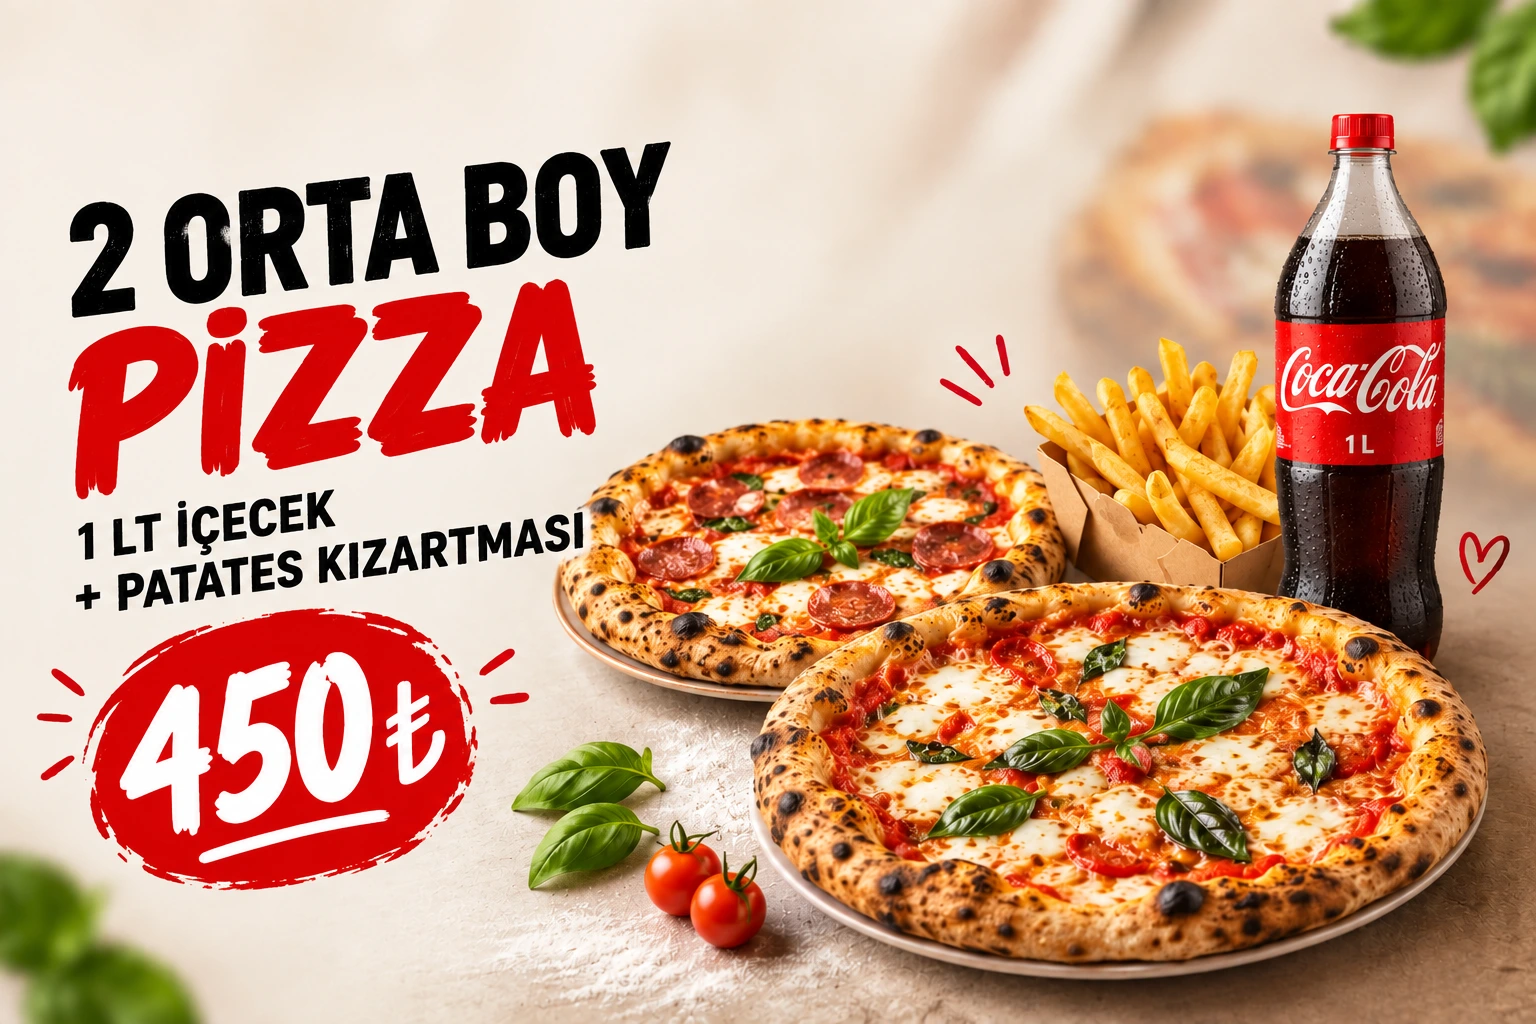
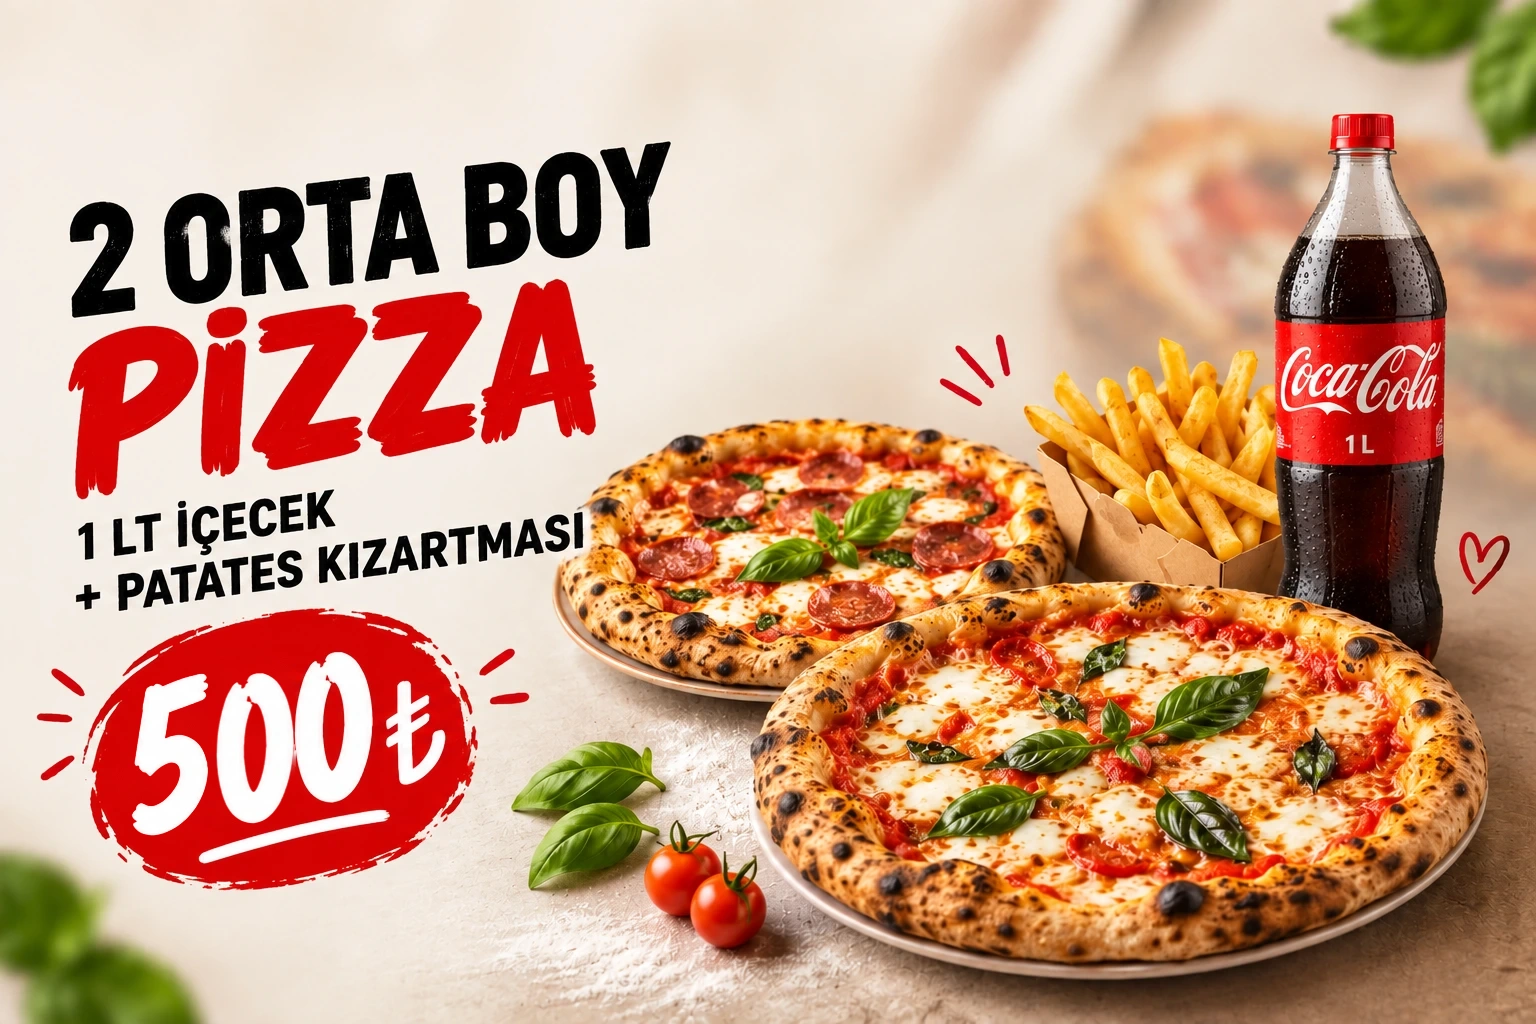
500

Changed region(s): [[0.0625, 0.625, 0.2188, 0.8125]]

diff --git a/src/features/PizzaShowcase/PizzaData.ts b/src/features/PizzaShowcase/PizzaData.ts
@@ -289,8 +289,8 @@ export const pizzas: PizzaItem[] = [
 
     image: KavurmaliPizza,
 
-    price: 270,
-    pricedelivery: 290,
+    price: 300,
+    pricedelivery: 320,
 
     rating: 4.9,
 
@@ -320,8 +320,8 @@ export const pizzas: PizzaItem[] = [
 
     image: PastirmaSucukPizza,
 
-    price: 270,
-    pricedelivery: 290,
+    price: 300,
+    pricedelivery: 320,
 
     rating: 4.9,
 
@@ -351,8 +351,8 @@ export const pizzas: PizzaItem[] = [
 
     image: TonBalikPizza,
 
-    price: 270,
-    pricedelivery: 290,
+    price: 300,
+    pricedelivery: 320,
 
     rating: 4.9,
 
@@ -381,8 +381,8 @@ export const pizzas: PizzaItem[] = [
 
     image: CitirTavukPizza,
 
-    price: 270,
-    pricedelivery: 290,
+    price: 300,
+    pricedelivery: 320,
 
     rating: 4.9,
 

diff --git a/src/features/campaign/components/CampaignActions.tsx b/src/features/campaign/components/CampaignActions.tsx
@@ -38,8 +38,8 @@ const campaignData: Campaign[] = [
     image: ikiortaboy,
     description:
       "Açılışa özel 2 Orta Boy Pizza, Patates kızartması ve 1 Litre içecek fırsatından yararlan, avantajlı fiyatlarla lezzeti keşfetmeye başla.",
-    priceTakeaway: "450",
-    priceDelivery: "450",
+    priceTakeaway: "500",
+    priceDelivery: "520",
     // Buna badge eklemiyoruz, dolayısıyla etiket çıkmayacak
   },
 ];
